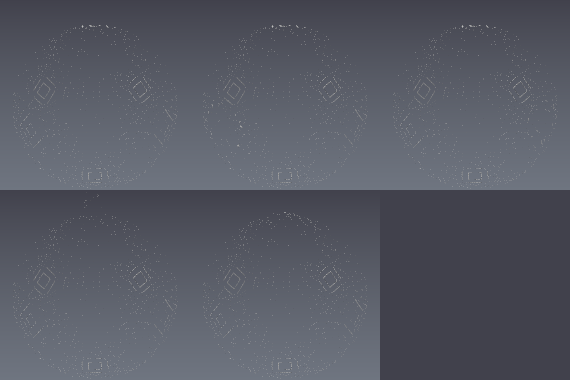
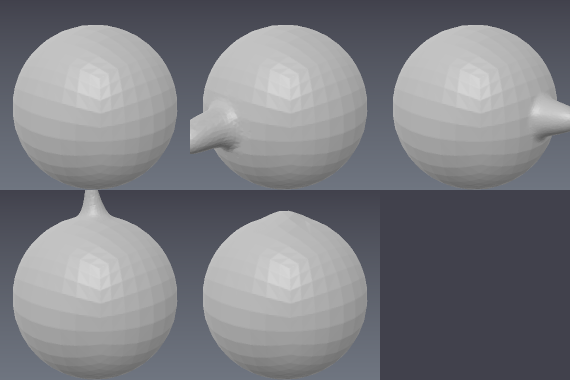
fix(examples): the gallery's sphere fixture was inside-out, and 14 specs had no Purpose
Two findings from reviewing #406, neither caused by it.

THE RENDER BUG (#407) is not what I filed it as. It is not every mesh preview
and it is not Volume.from_mesh: example 45, whose mesh comes from doc.mesh(),
renders correctly and always has. What is wrong is the hand-built cube-sphere
that 66_dynamic_topology builds for itself — its triangles wind INWARD.

  signed_volume  -4.1383   winding number at the centre  -1.022

A closed mesh wound inward has a winding number of -1 in its interior rather
than +1, so Bvh::is_inside is false everywhere, so the sampled field is POSITIVE
at the centre of the model. There is then no zero crossing for a ray to find:
0 of 625 rays hit a mesh sampled this way against 625 of 625 for one wound
outward, and what reaches the gallery is speckle where a ray happened to graze
the marcher's epsilon. Swapping the winding gives +4.1383 against the 4.1888 a
unit sphere should have, and the example renders what its own prose describes.

The sculpting never cared, which is why it survived: the example's assertions
are about topology and edge lengths, and only the picture was wrong.

SO THAT IT CANNOT RECUR SILENTLY, the nine identical copies of preview() — the
reason nothing checked the mesh — are now one R.mesh_preview_doc that REFUSES a
closed mesh whose signed volume is negative, naming the fix. Checked only on a
CLOSED mesh: signed_volume means nothing on an open one, and 19_mesh_import
legitimately previews a sphere with a hole in it.
[…]

diff --git a/examples/_render.py b/examples/_render.py
@@ -16,6 +16,8 @@ import zlib
 
 import numpy as np
 
+import pyclay as clay
+
 OUTPUT_DIR = os.path.join(os.path.dirname(os.path.abspath(__file__)), "output")
 
 # Modest by design: the renders are committed, so they must stay small.
@@ -341,6 +343,42 @@ def render_voxels(grid, name, eye=(2.6, 2.0, 3.2), target=(0.0, 0.0, 0.0),
     print(f"  wrote {os.path.relpath(path, os.path.dirname(OUTPUT_DIR))}"
           + (f"  ({caption})" if caption else ""))
     return path
+
+
+def mesh_preview_doc(mesh, cell, colour):
+    """A DISPLAY-ONLY document for a mesh, shared by every example that shows one.
+
+    A mesh layer is never evaluated, so the renderer — which raycasts a FIELD —
+    has nothing to trace against. Resampling the mesh here is exactly the
+    approximation a mesh layer exists to avoid, and it is fine for a picture and
+    wrong for the export.
+
+    IT REFUSES AN INSIDE-OUT MESH, and that guard is the whole reason this is
+    one function rather than the nine identical copies it replaced.
+
+    A closed mesh wound inward has a generalized winding number of -1 in its
+    interior rather than +1, so `is_inside` is false everywhere and
+    `Volume.from_mesh` samples a field that is POSITIVE at the centre of the
+    model. There is then no zero crossing for a ray to find: the preview comes
+    out as scattered speckle where a ray happened to graze the marcher's
+    epsilon, and nothing anywhere says why. `66_dynamic_topology` shipped like
+    that, because its assertions are about topology and never looked at the
+    picture.
+
+    Checked only on a CLOSED mesh: `signed_volume` means nothing on an open one,
+    and previewing an open surface is a thing the examples legitimately do.
+    """
+    if mesh.is_watertight() and mesh.signed_volume < 0.0:
+        raise SystemExit(
+            "this mesh is inside-out: it is closed and its signed volume is "
+            f"{mesh.signed_volume:.4f}, so its triangles wind INWARD. "
+            "Volume.from_mesh would sample a field with no interior and the "
+            "preview would render as speckle. Reverse the triangle winding at "
+            "the source rather than here."
+        )
+    doc = clay.Document()
+    doc.add_sdf_layer("preview").add(clay.Volume.from_mesh(mesh, cell=cell), color=colour)
+    return doc
 
 
 def render_mesh_array(mesh, eye=(2.6, 2.0, 3.2), target=(0.0, 0.0, 0.0),

diff --git a/examples/66_dynamic_topology.py b/examples/66_dynamic_topology.py
@@ -72,10 +72,17 @@ def coarse_sphere(n=10, radius=1.0):
             for u in range(n):
                 a = base + v * stride + u
                 b, c2, d = a + 1, a + stride, a + stride + 1
+                # OUTWARD, and it is worth a comment because it was wrong
+                # here for a long time and nothing failed. A closed mesh wound
+                # inward has a winding number of -1 inside, so `is_inside` is
+                # false everywhere, so `Volume.from_mesh` samples a field that
+                # is positive at the centre of the model — and the preview
+                # below traces it and finds almost no surface. The sculpting
+                # never cared, which is why it survived: the renders did.
                 if signs[f] > 0.0:
-                    indices += [a, c2, b, b, c2, d]
-                else:
                     indices += [a, b, c2, b, d, c2]
+                else:
+                    indices += [a, c2, b, b, c2, d]
     return clay.Mesh.from_triangles(np.array(positions, dtype=np.float32),
                                     np.array(indices, dtype=np.uint32))
 
@@ -85,9 +92,7 @@ def preview(mesh, cell=0.012, colour="#b0784a"):
     renderer — which raycasts a field — has nothing to trace against;
     resampling here is exactly the approximation a mesh layer exists to avoid,
     and it is fine for a picture and wrong for the export."""
-    doc = clay.Document()
-    doc.add_sdf_layer("preview").add(clay.Volume.from_mesh(mesh, cell=cell), color=colour)
-    return doc
+    return R.mesh_preview_doc(mesh, cell, colour)
 
 
 def triangles_near(mesh, centre, radius):

diff --git a/examples/65_brush_presets.py b/examples/65_brush_presets.py
@@ -83,10 +83,7 @@ def preview(mesh, cell=0.014, colour="#b0784a"):
     evaluated, so the renderer — which raycasts a field — has nothing to trace
     against; resampling here is exactly the approximation a mesh layer exists to
     avoid, and it is fine for a picture and wrong for the export."""
-    doc = clay.Document()
-    doc.add_sdf_layer("preview").add(clay.Volume.from_mesh(mesh, cell=cell),
-                                     color=colour)
-    return doc
+    return R.mesh_preview_doc(mesh, cell, colour)
 
 
 def copy_of(mesh):

diff --git a/examples/49_mesh_lattice.py b/examples/49_mesh_lattice.py
@@ -77,10 +77,7 @@ def preview(mesh, cell=0.013, colour="#7a8fb0"):
     renderer — which raycasts a field — has nothing to trace against.
     Resampling here is exactly the approximation a mesh layer exists to avoid:
     fine for a picture, wrong for the export."""
-    doc = clay.Document()
-    doc.add_sdf_layer("preview").add(clay.Volume.from_mesh(mesh, cell=cell),
-                                     color=colour)
-    return doc
+    return R.mesh_preview_doc(mesh, cell, colour)
 
 
 def cage_over(mesh, n=3, pad=0.02):

diff --git a/examples/57_mesh_deformers.py b/examples/57_mesh_deformers.py
@@ -112,9 +112,7 @@ def preview(mesh, cell=0.02, colour="#b8b0a4"):
     """A DISPLAY-ONLY document: a mesh layer is never evaluated, so the renderer
     has nothing to trace against. Resampling here is the approximation a mesh
     layer exists to avoid — fine for a picture, wrong for the export."""
-    doc = clay.Document()
-    doc.add_sdf_layer("preview").add(clay.Volume.from_mesh(mesh, cell=cell), color=colour)
-    return doc
+    return R.mesh_preview_doc(mesh, cell, colour)
 
 
 def deformed(**kwargs):

diff --git a/examples/55_mesh_brush_vocabulary.py b/examples/55_mesh_brush_vocabulary.py
@@ -99,9 +99,7 @@ def preview(mesh, cell=0.012, colour="#8fa4c0"):
     """A DISPLAY-ONLY document: a mesh layer is never evaluated, so the renderer
     has nothing to trace against. Resampling here is exactly the approximation a
     mesh layer exists to avoid — fine for a picture, wrong for the export."""
-    doc = clay.Document()
-    doc.add_sdf_layer("preview").add(clay.Volume.from_mesh(mesh, cell=cell), color=colour)
-    return doc
+    return R.mesh_preview_doc(mesh, cell, colour)
 
 
 def main():

diff --git a/examples/46_mesh_brush_compositions.py b/examples/46_mesh_brush_compositions.py
@@ -100,9 +100,7 @@ def dented_block(cell=0.025, amplitude=0.007, wavelength=0.26, seed=46):
 def preview(mesh, cell=0.012, colour="#9aa7b2"):
     """Display only: a mesh layer is never evaluated, so the renderer has
     nothing to trace until something resamples it. See 36_mesh_layers."""
-    doc = clay.Document()
-    doc.add_sdf_layer("preview").add(clay.Volume.from_mesh(mesh, cell=cell), color=colour)
-    return doc
+    return R.mesh_preview_doc(mesh, cell, colour)
 
 
 def copy_of(mesh):

diff --git a/examples/45_mesh_brushes.py b/examples/45_mesh_brushes.py
@@ -85,10 +85,7 @@ def preview(mesh, cell=0.014, colour="#b0784a"):
     has nothing to trace against. Resampling here is exactly the approximation
     a mesh layer exists to avoid: fine for a picture, wrong for the export.
     """
-    doc = clay.Document()
-    doc.add_sdf_layer("preview").add(clay.Volume.from_mesh(mesh, cell=cell),
-                                     color=colour)
-    return doc
+    return R.mesh_preview_doc(mesh, cell, colour)
 
 
 def copy_of(mesh):

diff --git a/examples/47_mesh_brush_reach_and_undo.py b/examples/47_mesh_brush_reach_and_undo.py
@@ -51,9 +51,7 @@ def fork(cell=0.014):
 def preview(mesh, cell=0.012, colour="#b0784a"):
     """Display only: a mesh layer is never evaluated, so the renderer has
     nothing to trace until something resamples it. See 36_mesh_layers."""
-    doc = clay.Document()
-    doc.add_sdf_layer("preview").add(clay.Volume.from_mesh(mesh, cell=cell), color=colour)
-    return doc
+    return R.mesh_preview_doc(mesh, cell, colour)
 
 
 def copy_of(mesh):

diff --git a/openspec/specs/meshing/spec.md b/openspec/specs/meshing/spec.md
@@ -1,7 +1,15 @@
 # meshing Specification
 
 ## Purpose
-TBD - created by archiving change add-claycore-v1. Update Purpose after archive.
+Turning a field into triangles that a DCC, an exporter or a renderer will accept
+— and stating what those triangles GUARANTEE.
+
+The default path is watertight and 2-manifold by construction rather than by
+inspection, because "usually closed" is not a property an exporter can rely on.
+Beside it are the preview, quad and dual-contouring meshers, decimation,
+validation, attribute transfer and the sculpting a mesh accepts once it exists.
+`mesh::Mesh` — flat arrays every producer and consumer shares — is defined here,
+which is why this capability is also where its invariants are written down.
 ## Requirements
 ### Requirement: Default mesher with watertight guarantee
 `clay::mesh` SHALL provide a default cell-marching mesher whose output is watertight and 2-manifold by construction, running only over surface-crossing bricks. v1 implements this with marching tetrahedra (Freudenthal 6-tet decomposition with globally consistent face diagonals — no ambiguous configurations exist, so the guarantee is structural); a table-based marching cubes with asymptotic-decider ambiguity resolution MAY replace it later as a triangle-count optimization provided the same guarantees hold. The CPU implementation is the golden reference; GPU implementations (Metal/CUDA) SHALL match its topology invariants (watertight, manifold, Euler characteristic on golden scenes) though not bit-identical vertex positions.

diff --git a/openspec/specs/sdf-kernels/spec.md b/openspec/specs/sdf-kernels/spec.md
@@ -1,7 +1,15 @@
 # sdf-kernels Specification
 
 ## Purpose
-TBD - created by archiving change add-claycore-v1. Update Purpose after archive.
+The arithmetic everything else is ultimately made of: the primitive set, the 2D
+profiles, booleans and smooth blends, transforms, symmetry, repetition and the
+deformers — written ONCE in a portable dialect that compiles for the CPU and for
+every GPU backend.
+
+It is its own capability because of what it may not name. A kernel that mentions
+a document, a layer, a host type or a threading primitive cannot be compiled for
+four devices and compared bit for bit, and that comparison is what makes a field
+one field rather than four that resemble each other.
 ## Requirements
 ### Requirement: Kernel dialect portability
 All distance functions and operators SHALL be written once, in header-only files under `include/clay/kernel/`, in a restricted C++ dialect accepted by every target compiler: no virtual functions, no exceptions, no heap allocation, no recursion, `constexpr`-friendly, using only fixed-size vector/scalar types from `shim.h` (`cfloat3`, `cfloat4x4`, …). `shim.h` SHALL map those types and qualifiers to the native types of each backend (Apple `simd`/scalar C++ for CPU, MSL vectors for Metal, CUDA vectors, OpenCL vectors) under the macros `CLAY_KERNEL_CPU`, `CLAY_KERNEL_METAL`, `CLAY_KERNEL_CUDA`, `CLAY_KERNEL_OPENCL`. The `kernel` module SHALL depend on nothing outside itself.

diff --git a/openspec/specs/c-abi/spec.md b/openspec/specs/c-abi/spec.md
@@ -1,7 +1,13 @@
 # c-abi Specification
 
 ## Purpose
-TBD - created by archiving change add-claycore-v1. Update Purpose after archive.
+The boundary every host crosses, and the rules that keep it crossable.
+
+Opaque handles, integer results, caller-owned buffers, no C++ type and no
+exception in a signature — so that Swift, C# or Rust can consume it without a
+shim. The versioned descriptor convention is what lets the surface GROW without
+breaking a host compiled against an older header: a caller declares the layout
+it knows, and a field appended later keeps its documented default.
 ## Requirements
 ### Requirement: Flat versioned C API
 `bindings/c/clay.h` SHALL expose documents, layers, edit commands, evaluation, brick access, meshing, picking, and file I/O through a flat C API: opaque handles, integer error codes, caller-owned buffers, no C++ types and no exceptions crossing the boundary. The header SHALL carry an ABI version triple queryable at runtime (`clay_version()`), and the ABI SHALL follow SemVer: from 1.0 breaking changes only on major, and below 1.0 under SemVer's 0.x rule a minor bump MAY break the ABI. A break below 1.0 SHALL be stated in the header, the proposal and the release notes, and SHALL be detectable rather than silent: a call made in the older layout SHALL be rejected with an error code, never read as if it were the newer one.
